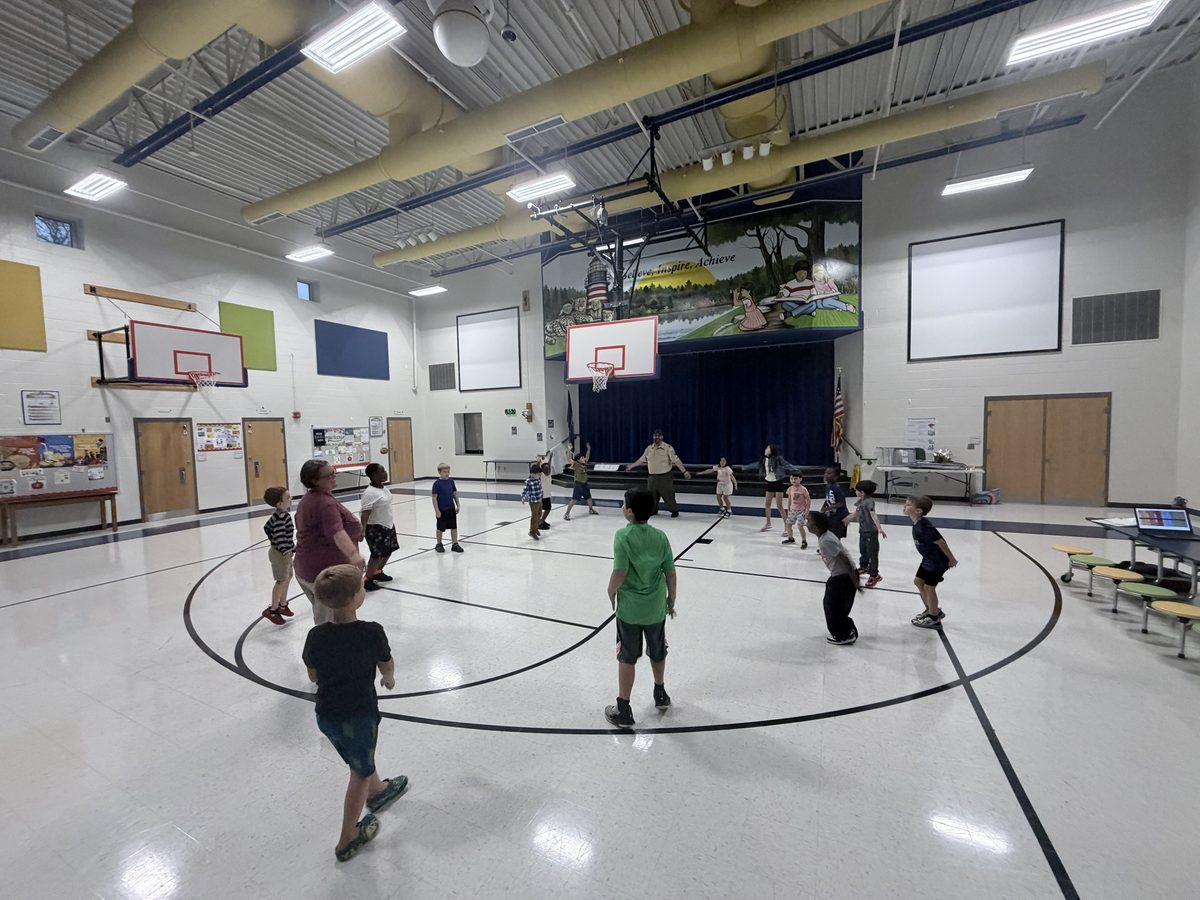
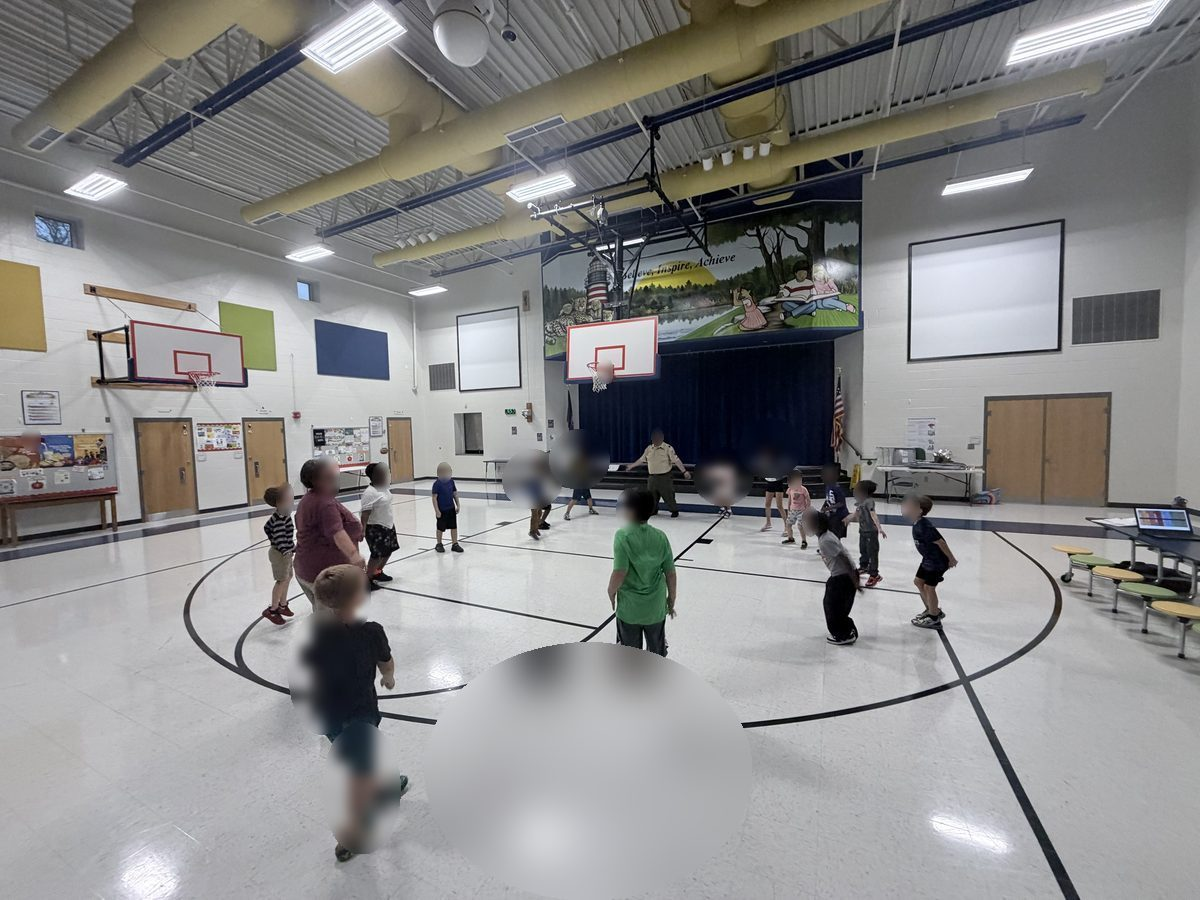
fix(gallery): blur every child's face; add Oct 15 paper art photos
New rule: any photo with kids gets their faces blurred. Re-saved the six
existing fishing-day and get-moving photos with faces blurred, and added
two photos from the Oct 15 den meeting, also blurred. All images are
resized to 1200px, under 500 KB, with metadata stripped. The privacy
policy and the gallery's photo checklist now state the rule.

Claude-Session: https://claude.ai/code/session_01Mv6jnD6itnFVSpKW3Tt1FH

diff --git a/docs/gallery.html b/docs/gallery.html
@@ -95,11 +95,24 @@
   </section>
 
   <!-- Add real photos to the feature row (images/gallery/, JPG + WebP, under 500 KB, metadata
-       stripped). Only use photos with written parent/guardian permission, per privacy.html. -->
+       stripped). Only use photos with written parent/guardian permission, per privacy.html.
+       Blur every child's face before a photo goes in. -->
 
   <section class="section">
     <div class="wrap">
-      <h2>Den Meeting: Critters Up Close</h2>
+      <h2>Den Meeting: Paper Art</h2>
+      <p>Scouts cut, folded, and curled strips of colored paper into 3D art, then added yarn,
+        pom-poms, and googly eyes.</p>
+      <div class="gallery-feature">
+        <figure>
+          <picture><source srcset="images/gallery/paper-art-1.webp" type="image/webp"><img src="images/gallery/paper-art-1.jpg" alt="Cub Scouts work on paper art around a long cafeteria table while a uniformed Pack 1125 leader looks on." width="900" height="1200" loading="lazy" decoding="async"></picture>
+        </figure>
+        <figure>
+          <picture><source srcset="images/gallery/paper-art-2.webp" type="image/webp"><img src="images/gallery/paper-art-2.jpg" alt="Looking down on a table covered in bright paper art: folded paper strips, crayon scribbles, yarn, pom-poms, and googly eyes, with Scouts gluing pieces in place." width="900" height="1200" loading="lazy" decoding="async"></picture>
+        </figure>
+      </div>
+
+      <h2 class="mt-2">Den Meeting: Critters Up Close</h2>
       <p>Scouts got a close look at display cases of preserved insects and critters —
         a luna moth, a swallowtail butterfly, dragonflies, beetles, a cicada, and even a crayfish.</p>
       <div class="gallery-feature">

diff --git a/docs/privacy.html b/docs/privacy.html
@@ -120,6 +120,7 @@
       <p>Pack 1125 follows Scouting America's Youth Protection and digital privacy guidelines:</p>
       <ul>
         <li>We post photos of Scouts only with written permission from a parent or guardian.</li>
+        <li>We blur every child's face in photos we post.</li>
         <li>We never publish a Scout's full name, school, or contact details with a photo.</li>
         <li>Adult leaders' names and contact details appear only with that leader's OK.</li>
         <li>Want a photo removed? Email <a href="mailto:admin@pack1125.org">admin@pack1125.org</a>
